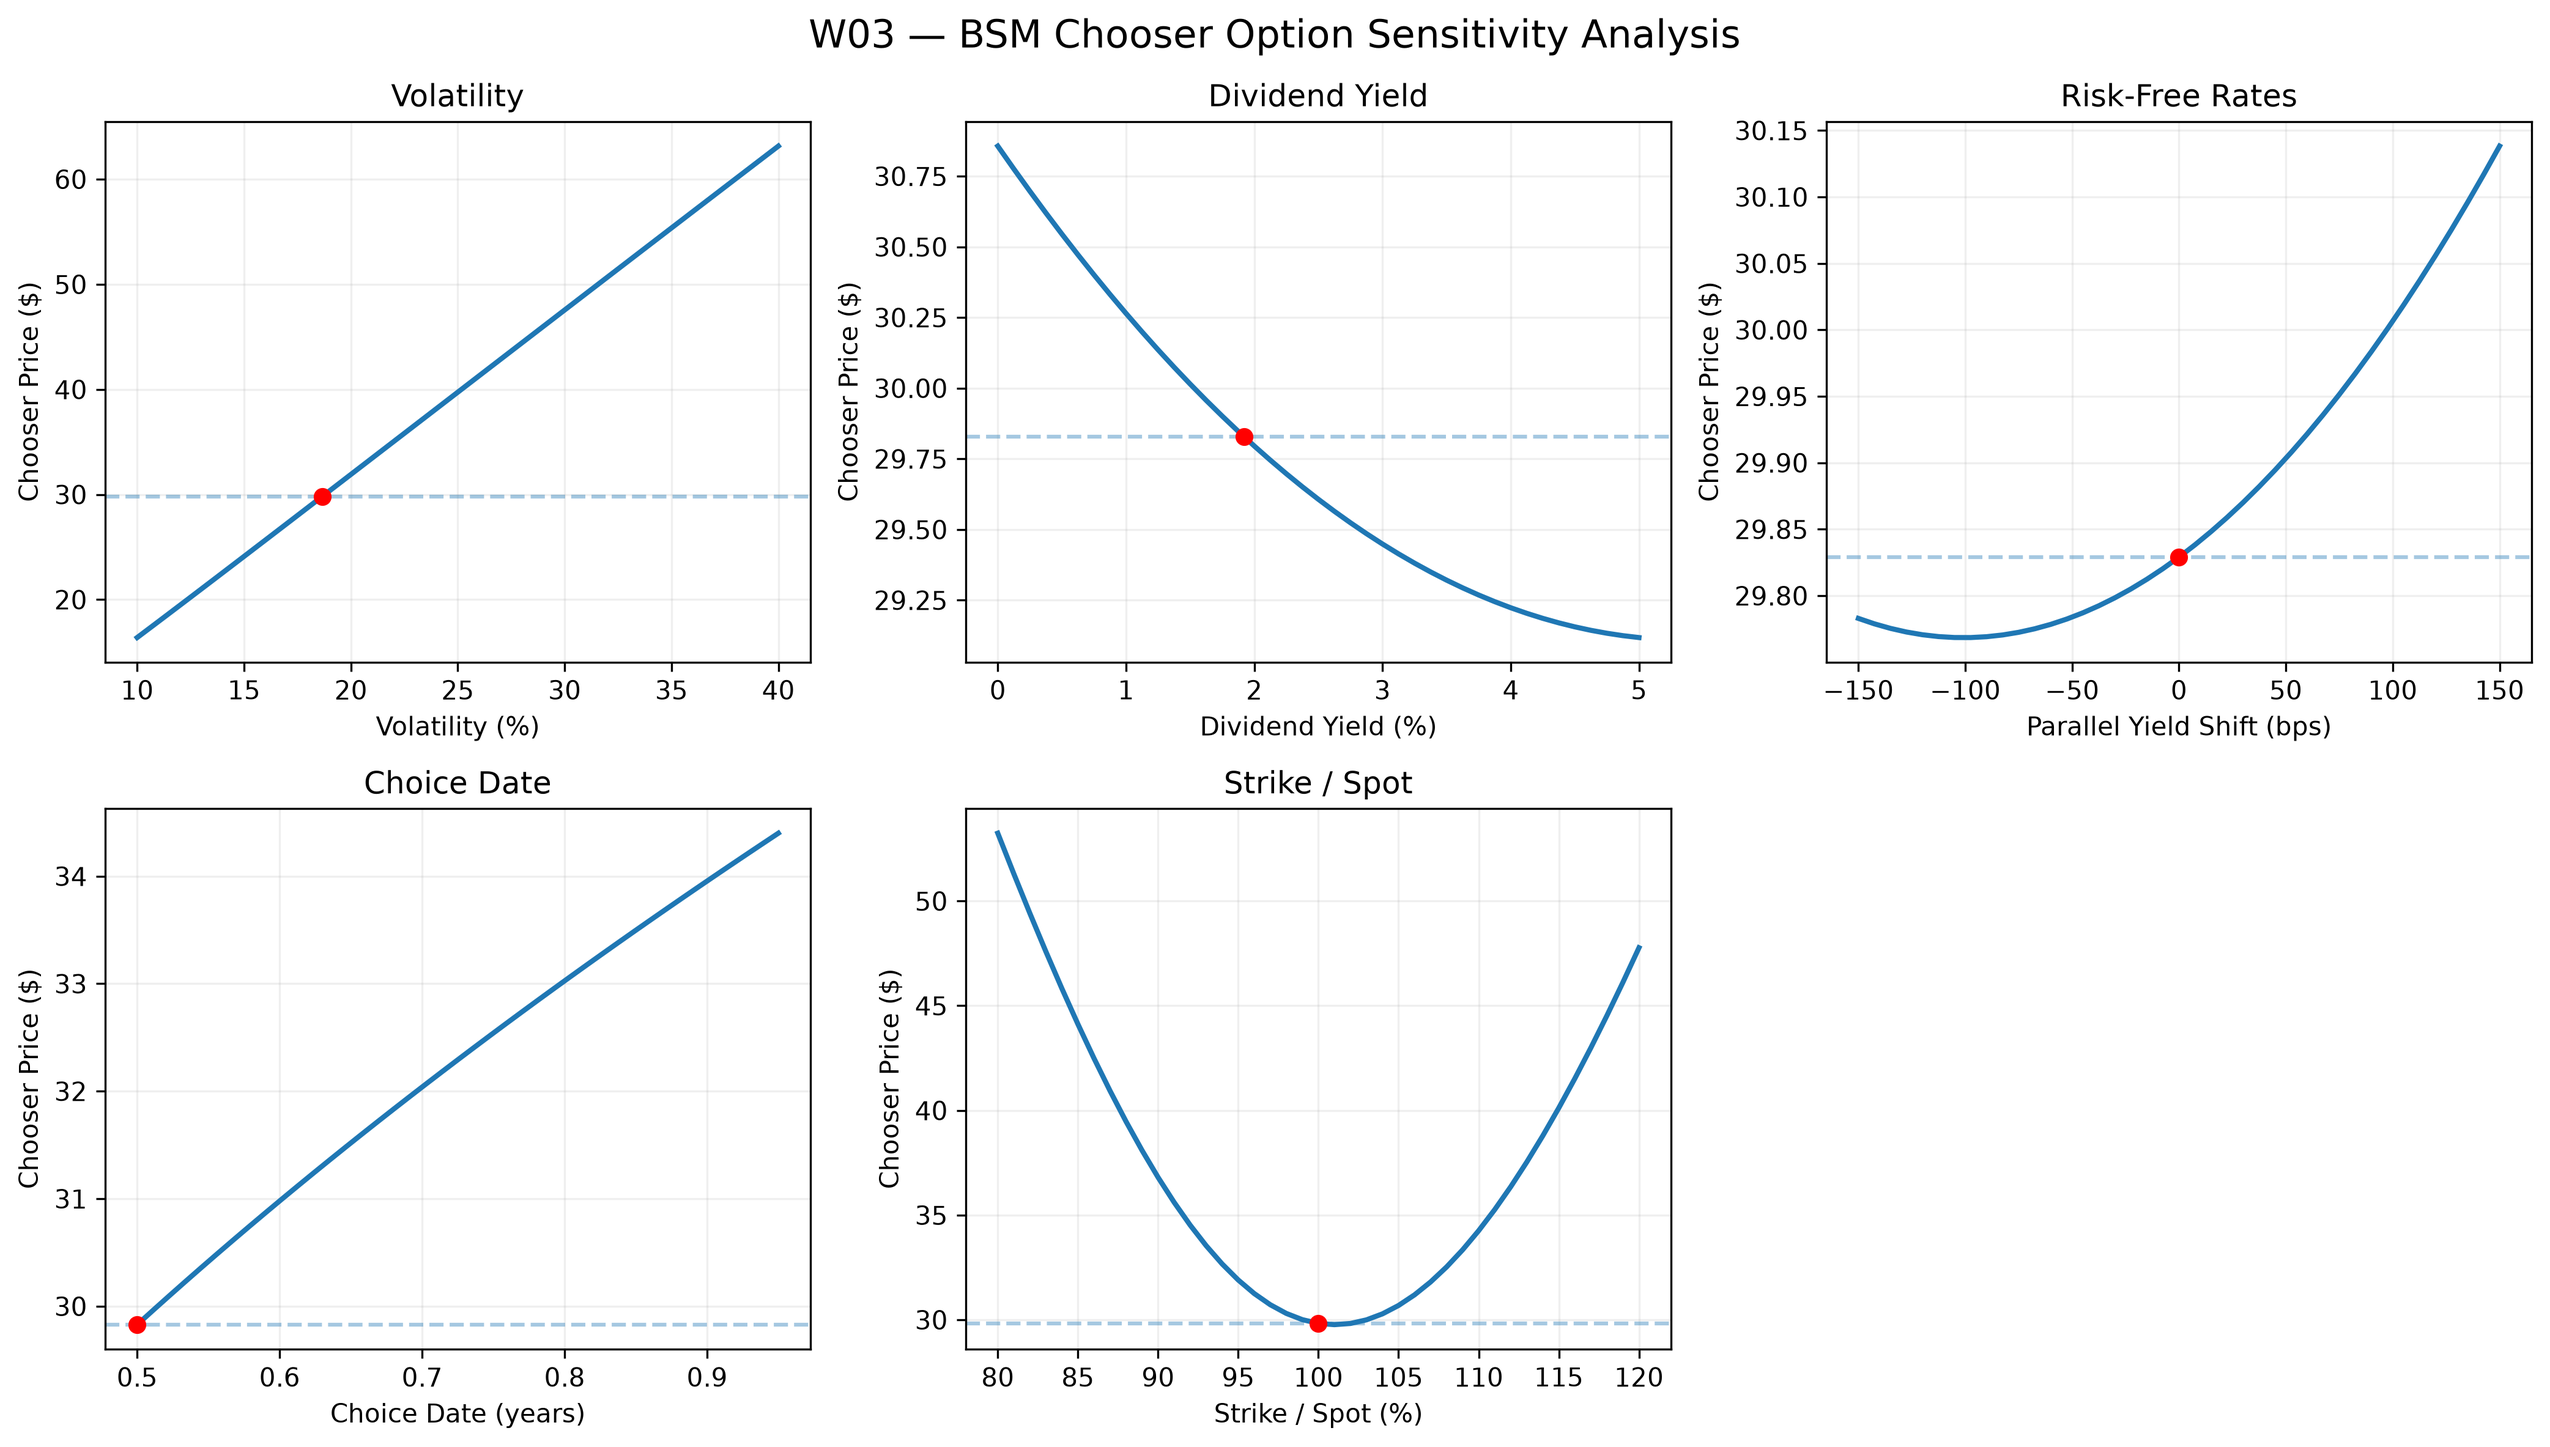
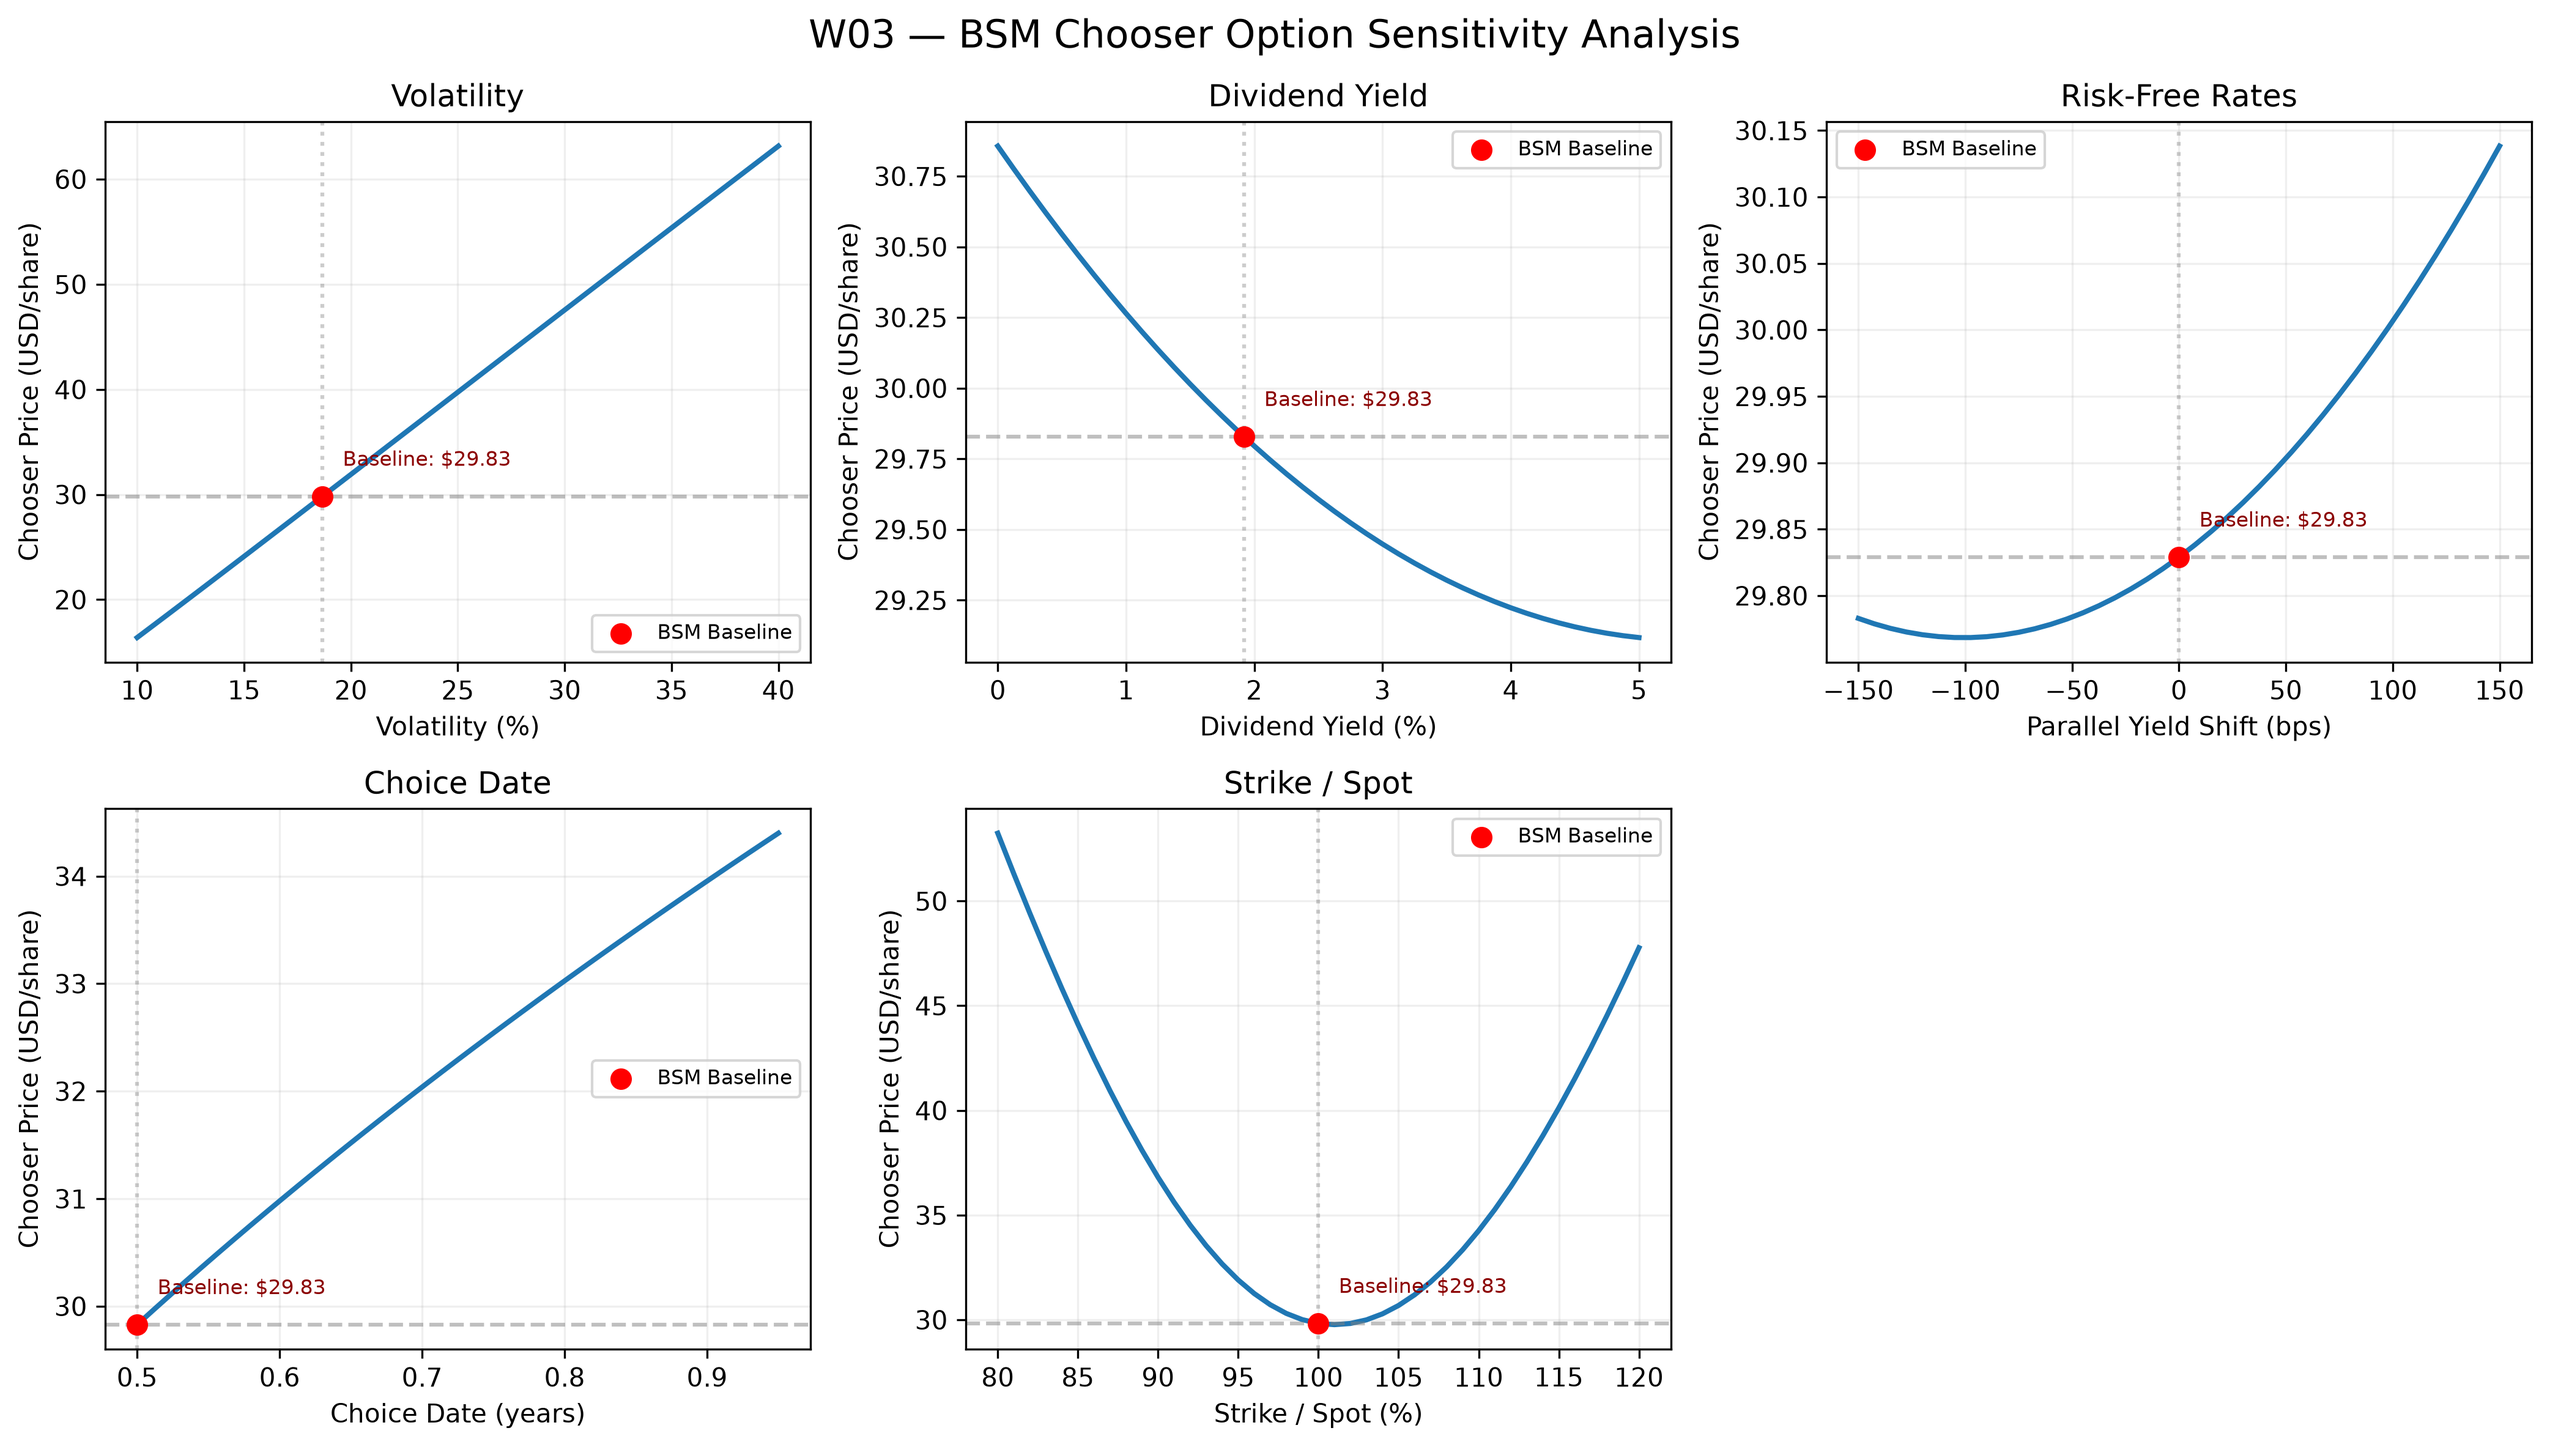
Refine W03 sensitivity chart and pricing leg descriptions

diff --git a/Chooser_Option_Research/04_Reports/weekly/W03_Weekly_Report.md b/Chooser_Option_Research/04_Reports/weekly/W03_Weekly_Report.md
@@ -7,38 +7,60 @@
 
 ## 1. Executive Summary
 
-Implemented a **European Simple Chooser Option** baseline for JPM using dividend-adjusted Black–Scholes–Merton (BSM) pricing and put–call parity decomposition. The estimated theoretical chooser value is **$29.8290** as of December 31, 2024. Tested the choice rule, pricing consistency, and sensitivity to five model inputs.
+Implemented a **European Simple Chooser Option** baseline for JPM using dividend-adjusted Black–Scholes–Merton (BSM) pricing and put–call parity decomposition. The estimated theoretical chooser value is **\$29.8290** as of December 31, 2024. Tested the choice rule, pricing consistency, and sensitivity to five model inputs.
 
 ## 2. Inputs & Method
 
 | Input | Value / method |
-|---|---|
+|------------------------------------|------------------------------------|
 | Underlying / valuation date | JPM / 2024-12-31 |
-| Spot price / strike | **$239.71 / $239.71** (at the money) |
+| Spot price / strike | **\$239.71 / \$239.71** (at the money) |
 | Choice date / final expiry | **0.5 / 1.0 years** |
 | Annualized volatility | **18.67%**, trailing 20-day historical estimate |
-| Dividend yield | **1.919%**, $4.60 trailing annual dividends / $239.71 spot |
+| Dividend yield | **1.919%**, \$4.60 trailing annual dividends / \$239.71 spot |
 | Risk-free yield proxies | **4.24% (6M)** / **4.16% (1Y)** |
 | Implied 6M–1Y forward-rate proxy | **4.08%** |
 
 **Pricing method:** Dividend-adjusted BSM European call and put, followed by the simple chooser decomposition:
 
-\[
+$$
 V_0 = C(S_0,K,T_2) + P\!\left(S_0 e^{-q(T_2-T_1)},\;K e^{-f(T_2-T_1)},\;T_1\right).
-\]
+$$
 
-The adjusted put uses the 6M discount-rate proxy; the European call uses the 1Y proxy. At the choice date, the holder selects the **higher continuation value**, not the larger realized payoff at final expiry.
+In this decomposition, the **adjusted European put leg expires at the choice date** $T_1=0.5$ and uses the 6M rate proxy; the original European call leg expires at $T_2=1.0$ and uses the 1Y proxy. At $T_1$, the holder compares the **call and put continuation values**, rather than looking ahead to final payoffs.
 
 ## 3. Pricing & Validation
 
 | Theoretical component | Price |
-|---|---:|
-| European call (1Y) | **$20.0223** |
-| European put (1Y) | **$14.8111** |
-| Additional choice value | **$9.8067** |
-| **Simple chooser option** | **$29.8290** |
+|------------------------------------|-----------------------------------:|
+| **European call leg — expiry** $T_2$ (1Y) | **\$20.0223** |
+| European put — expiry $T_2$ (1Y), *reference only* | **\$14.8111** |
+| **Additional choice value — adjusted European put leg, expiry** $T_1$ (6M) | **\$9.8067** |
+| **Simple chooser option = call leg + adjusted put leg** | **\$29.8290** |
 
-**Passed checks:** BSM put–call parity (error: **0.0**); expected dividend sensitivity; chooser value ≥ individual call/put; two equivalent chooser decompositions (both **$29.829018**); call–put equality at the critical choice price (**$237.1339**); and the near-expiry choice-date limit toward the European straddle (**$34.8335**).
+The Simple Chooser Option can be decomposed into a standard European call and an adjusted European put:
+
+$$
+V_0 = C_{\mathrm{BSM}}(S_0,K,T_2)
++ \underbrace{P_{\mathrm{BSM}}(S_0',K',T_1)}_{\text{Adjusted Put Leg}}
+$$
+
+where:
+
+$$
+S_0' = S_0 e^{-q(T_2-T_1)}, \qquad
+K' = K e^{-f(T_2-T_1)}
+$$
+
+Here, $q$ is the continuous dividend yield, and $f$ is the implied forward rate between $T_1$ and $T_2$.
+
+**Additional Choice Value (\$9.8067)** corresponds to the **Adjusted European Put Leg**, expiring at the choice date $T_1$, rather than the original European put expiring at $T_2$.
+
+This adjusted put leg represents the additional flexibility to choose the put when its continuation value exceeds that of the call at $T_1$.
+
+**Leg clarification:** The **\$9.8067** is the price of the *adjusted put expiring at the choice date*, not the \$14.8111 original 1Y put. It captures the value of choosing the put instead of the call when the put has the higher continuation value at $T_1$.
+
+**Passed checks:** BSM put–call parity (error: **0.0**); expected dividend sensitivity; chooser value ≥ individual call/put; two equivalent chooser decompositions (both **\$29.829018**); call–put equality at the critical choice price (**\$237.1339**); and the near-expiry choice-date limit toward the European straddle (**\$34.8335**).
 
 These are **internal consistency checks**, not validation against traded chooser prices.
 
@@ -46,15 +68,17 @@ These are **internal consistency checks**, not validation against traded chooser
 
 ![W03 Chooser Option Sensitivity Analysis](figures/W03_Chooser_Sensitivity.png)
 
+**Figure reference:** Red marker = **baseline theoretical price \$29.8290 USD per underlying share** (JPM, 2024-12-31). Baseline inputs: $\sigma=18.67\%$, $q=1.919\%$, $T_1=0.50$ years, $K/S_0=100\%$ and **0 bps parallel yield shift**. Y-axis units are **USD per underlying share** in every panel; x-axes are labeled in **annualized %**, **basis points (bps)**, **years**, or **strike/spot %**, as appropriate.
+
 Five one-at-a-time scenarios were evaluated: **volatility, dividend yield, parallel risk-free yield shifts, choice date, and strike/spot ratio**.
 
 | Scenario | Chooser theoretical price | Interpretation |
-|---|---|---|
-| Baseline: volatility **18.67%** | **$29.8290** | Historical-volatility reference |
-| Volatility increased to **25%** | **$39.7354** | Strong sensitivity to volatility assumptions |
-| Choice date delayed from **0.5 to 0.95 years** | **$34.4001** | Later choice increases flexibility value |
-| Dividend yield **0% → 5%** | **$30.8567 → $29.1178** | Net dividend sensitivity over the tested range |
-| Strike/spot **80% / 100% / 120%** | **$53.2405 / $29.8290 / $47.7700** | Nonlinear moneyness response |
+|------------------------|------------------------|------------------------|
+| Baseline: volatility **18.67%** | **\$29.8290** | Historical-volatility reference |
+| Volatility increased to **25%** | **\$39.7354** | Strong sensitivity to volatility assumptions |
+| Choice date delayed from **0.5 to 0.95 years** | **\$34.4001** | Later choice increases flexibility value |
+| Dividend yield **0% → 5%** | **\$30.8567 → \$29.1178** | Net dividend sensitivity over the tested range |
+| Strike/spot **80% / 100% / 120%** | **\$53.2405 / \$29.8290 / \$47.7700** | Nonlinear moneyness response |
 
 **Implication:** Volatility input quality is especially consequential, motivating later ML-based volatility forecasting and comparison with stochastic-volatility models.
 
